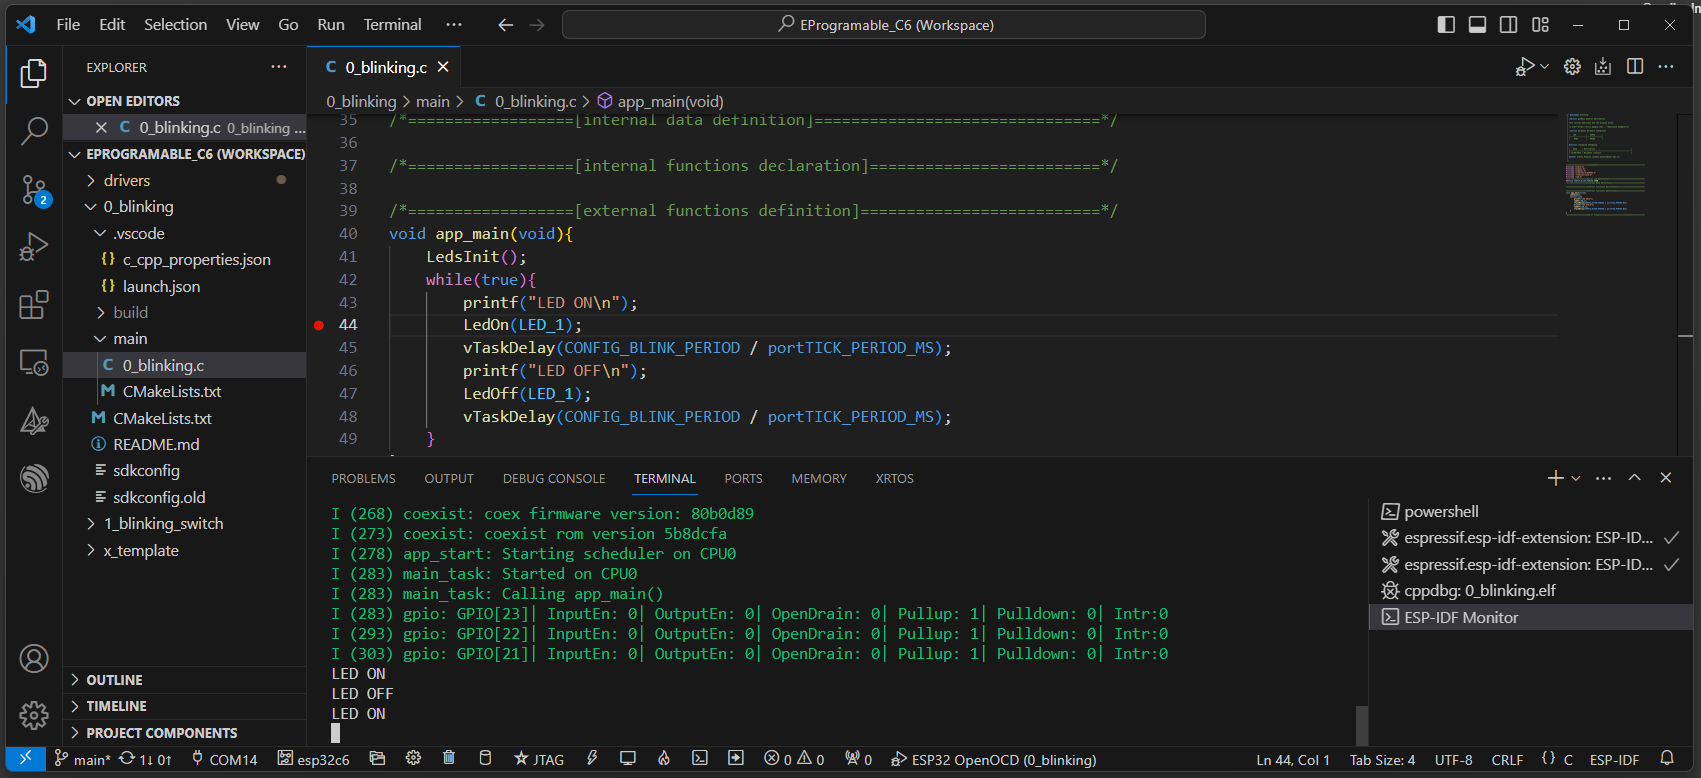
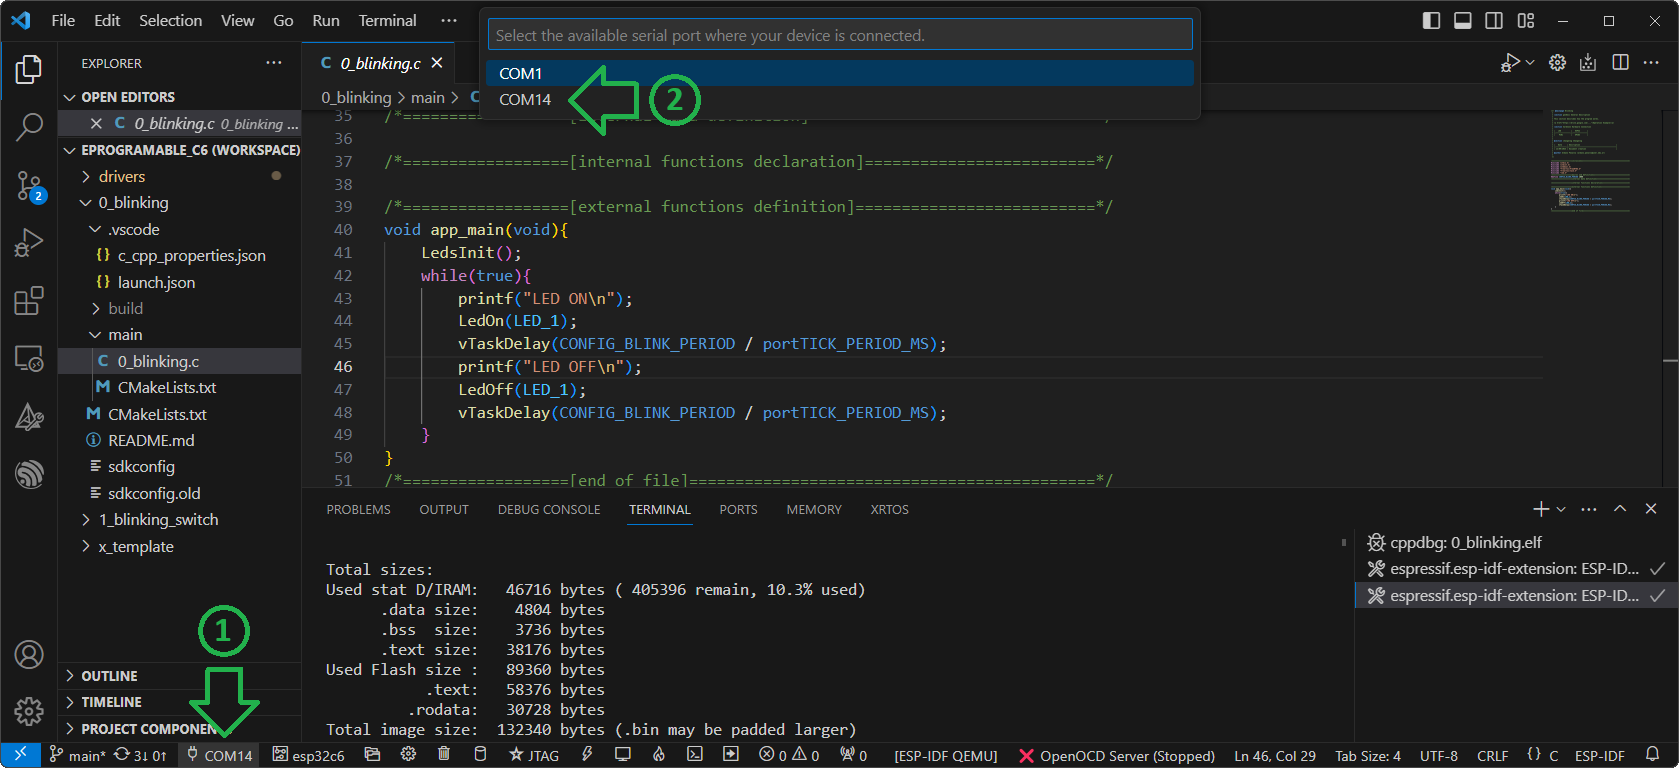
Se agrega una sección para uso del monitor serie dentro de la guía de depuración.

diff --git a/documentación/depuración.md b/documentación/depuración.md
@@ -44,3 +44,21 @@ Para entrar en modo Depuración se debe:
     ![debug4](./imágenes/debug4.png)
 	
 ## Monitor Serie
+El `ESP-IDF Monitor` permite imprimir por pantalla mensajes enviados desde el microcontrolador, que pueden ser de utilidad para la verificación del funcionamiento de un programa.
+En el mismo se muestran los mensajes enviados utilizando las funciones `printf()` o `ESP_LOG()`. 
+
+1. Conecte la placa ESP32-C6-DevKitC-1 a su computadora utilizando un cable USB-C en el conector señalado como `UART`.
+
+    ![monitor1](./imágenes/monitor1.png)
+
+2. Seleccione el puerto `COM` correspondiente a la placa.
+
+    > **NOTA:** El número del puerto `COM` es asignado por su sistema operativo al momento de conectar la placa por primera vez, por lo tanto puede variar de un dispositivo a otro. 
+    
+	![monitor2](./imágenes/monitor2.png)
+
+3. Presione el botón `ESP-IDF Monitor device`. Se abrirá un nuevo terminal llamado `ESP-IDF monitor` donde se mostrarán los mensajes enviados.
+     
+	 > **NOTA:** Al ejecutar el `Monitor` el microcontrolador se reinicia, por lo tanto los mensajes mostrados parten desde el inicio de la ejecución del programa grabado.
+    
+    ![monitor3](./imágenes/monitor3.png)
